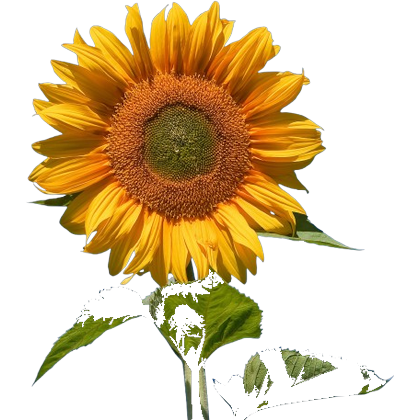
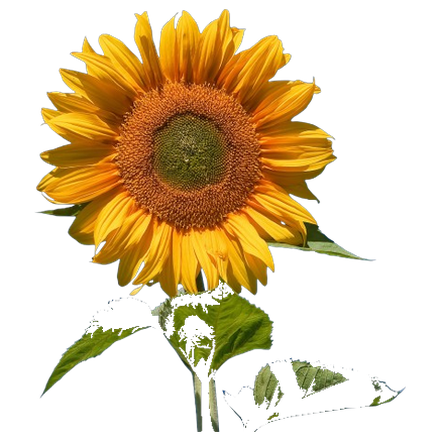
fix: los tramos y el envio gratis que ve el cliente salen de la configuracion
El panel y el checkout leian los tramos del catalogo del codigo mientras el
calculo ya usaba los editados. Cambiar un tramo movia el descuento cobrado pero
no la tabla mostrada, asi que la pantalla prometia una cosa y cobraba otra.

Ademas:
- Al mover el "desde" de un tramo se recalcula el "hasta" del anterior, para que
  no queden montos sin tramo.
- Foto nueva de hortensia: la anterior era un arbusto entero y a tamano de
  miniatura se leia como una mancha oscura.
- Las piezas se recortan al contenido y se centran, asi ninguna queda pequena
  dentro de su caja. Se ajusto la escala de globo, eucalipto y tulipan para que
  conserven el tamano que ya tenian.
- El archivo del vino no coincidia con su id, asi que siempre caia al dibujo de
  respaldo en lugar de mostrar la botella.
- Acentos en los nombres y descripciones visibles.
- Fuera los interruptores del configurador que no encendian nada.

diff --git a/src/datos/catalogo.ts b/src/datos/catalogo.ts
@@ -58,7 +58,7 @@ export const FORMATOS: Formato[] = [
   {
     id: 'ramo',
     nombre: 'Ramo envuelto',
-    descripcion: 'Clasico, en papel coreano',
+    descripcion: 'Clásico, en papel coreano',
     precio: 0,
     imagen: 'ramo',
   },
@@ -87,23 +87,23 @@ export const CINTAS: Cinta[] = [
 ]
 
 export const ARTICULOS: Articulo[] = [
-  { id: 'rosa-roja',    nombre: 'Rosas rojas',      descripcion: 'Clasicas y elegantes',   precio: 6, categoria: 'flor',    foto: 'rosa-roja',    pieza: 'rosa-roja',    escala: 1, stock: 24 },
-  { id: 'rosa-rosada',  nombre: 'Rosas rosadas',    descripcion: 'Romanticas y dulces',    precio: 6, categoria: 'flor',    foto: 'rosa-rosada',  pieza: 'rosa-rosada',  escala: 1, stock: 18 },
+  { id: 'rosa-roja',    nombre: 'Rosas rojas',      descripcion: 'Clásicas y elegantes',   precio: 6, categoria: 'flor',    foto: 'rosa-roja',    pieza: 'rosa-roja',    escala: 1, stock: 24 },
+  { id: 'rosa-rosada',  nombre: 'Rosas rosadas',    descripcion: 'Románticas y dulces',    precio: 6, categoria: 'flor',    foto: 'rosa-rosada',  pieza: 'rosa-rosada',  escala: 1, stock: 18 },
   { id: 'lirio',        nombre: 'Lirios blancos',   descripcion: 'Elegancia y pureza',     precio: 7, categoria: 'flor',    foto: 'lirio',        pieza: 'lirio',        escala: 1.15, stock: 9 },
-  { id: 'girasol',      nombre: 'Girasoles',        descripcion: 'Alegria y energia',      precio: 6, categoria: 'flor',    foto: 'girasol',      pieza: 'girasol',      escala: 1.2, stock: 12 },
-  { id: 'tulipan',      nombre: 'Tulipanes',        descripcion: 'Color y ternura',        precio: 6, categoria: 'flor',    foto: 'tulipan',      pieza: 'tulipan',      escala: 0.95, stock: 15 },
+  { id: 'girasol',      nombre: 'Girasoles',        descripcion: 'Alegría y energía',      precio: 6, categoria: 'flor',    foto: 'girasol',      pieza: 'girasol',      escala: 1.2, stock: 12 },
+  { id: 'tulipan',      nombre: 'Tulipanes',        descripcion: 'Color y ternura',        precio: 6, categoria: 'flor',    foto: 'tulipan',      pieza: 'tulipan',      escala: 0.8, stock: 15 },
   { id: 'gerbera',      nombre: 'Gerberas',         descripcion: 'Frescura y vitalidad',   precio: 5, categoria: 'flor',    foto: 'gerbera',      pieza: 'gerbera',      escala: 1, stock: 20 },
   { id: 'clavel',       nombre: 'Claveles',         descripcion: 'Belleza duradera',       precio: 4, categoria: 'flor',    foto: 'clavel',       pieza: 'clavel',       escala: 0.9, stock: 30 },
-  { id: 'hortensia',    nombre: 'Hortensias',       descripcion: 'Volumen y delicadeza',   precio: 7, categoria: 'flor',    foto: 'hortensia',    pieza: 'hortensia',    escala: 1.3, stock: 6 },
+  { id: 'hortensia',    nombre: 'Hortensias',       descripcion: 'Volumen y delicadeza',   precio: 7, categoria: 'flor',    foto: 'hortensia',    pieza: 'hortensia',    escala: 1.15, stock: 6 },
 
-  { id: 'eucalipto',    nombre: 'Follaje eucalipto', descripcion: 'Verde y aromatico',     precio: 4, categoria: 'follaje', foto: 'eucalipto',    pieza: 'eucalipto',    escala: 1.25, stock: 25 },
+  { id: 'eucalipto',    nombre: 'Follaje eucalipto', descripcion: 'Verde y aromático',     precio: 4, categoria: 'follaje', foto: 'eucalipto',    pieza: 'eucalipto',    escala: 1.1, stock: 25 },
   { id: 'helecho',      nombre: 'Helecho',           descripcion: 'Textura y volumen',     precio: 3, categoria: 'follaje', foto: 'helecho',      pieza: 'helecho',      escala: 1.2, stock: 14 },
   { id: 'gypsophila',   nombre: 'Gypsophila',        descripcion: 'Nube de flores blancas', precio: 4, categoria: 'follaje', foto: 'gypsophila',  pieza: 'gypsophila',   escala: 1.1, stock: 16 },
 
-  { id: 'globo',        nombre: 'Globo metalico',    descripcion: 'Para ocasiones especiales', precio: 12, categoria: 'extra', foto: 'globo',     pieza: 'globo',        escala: 1.1, stock: 8 },
+  { id: 'globo',        nombre: 'Globo metálico',    descripcion: 'Para ocasiones especiales', precio: 12, categoria: 'extra', foto: 'globo',     pieza: 'globo',        escala: 0.75, stock: 8 },
   { id: 'chocolates',   nombre: 'Caja de chocolates', descripcion: 'Bombones surtidos',    precio: 25, categoria: 'extra',  foto: 'chocolates',   pieza: 'chocolates',   escala: 1, stock: 5 },
   { id: 'peluche',      nombre: 'Peluche',            descripcion: 'Oso de 25 cm',         precio: 30, categoria: 'extra',  foto: 'peluche',      pieza: 'peluche',      escala: 1.15, stock: 3 },
-  { id: 'vino-tinto',   nombre: 'Vino tinto',         descripcion: 'Botella 750 ml',       precio: 45, categoria: 'extra',  foto: 'vino',         pieza: 'vino',         escala: 1.1, stock: 4 },
+  { id: 'vino-tinto',   nombre: 'Vino tinto',         descripcion: 'Botella 750 ml',       precio: 45, categoria: 'extra',  foto: 'vino-tinto',   pieza: 'vino-tinto',   escala: 1.1, stock: 4 },
 ]
 
 export function tramoPara(subtotal: number, tramos: TramoDescuento[] = TRAMOS): TramoDescuento {

diff --git a/src/paginas/Configurador.tsx b/src/paginas/Configurador.tsx
@@ -89,44 +89,48 @@ export default function Configurador() {
               Restablecer
             </button>
           )}
-          <span className="px-3 py-1.5 rounded-full bg-exito-suave text-exito text-[.78rem] font-semibold">
-            Activo
-          </span>
         </div>
 
         <div className="flex items-start gap-2.5 px-4 py-3 rounded-xl bg-marca-suave text-[.85rem] mb-6">
           <Info size={18} weight="light" className="text-marca shrink-0 mt-0.5" />
           <p>
-            Cambia cualquier valor y vuelve a la tienda: lo verás aplicado. En el prototipo se
-            guarda solo en este navegador.
+            En el prototipo los cambios se guardan solo en este navegador. En el producto real
+            viven en la base de datos y los ve cualquiera que entre a la tienda.
           </p>
         </div>
 
-        <div className="grid lg:grid-cols-2 gap-4 mb-4">
+        <div className="grid lg:grid-cols-2 gap-4 mb-4 items-start">
           <section className="bg-white rounded-2xl border border-borde p-5">
             <h2 className="font-semibold text-[1.02rem] mb-1">Descuentos por monto</h2>
             <p className="text-[.8rem] text-texto-suave mb-4">
-              Desde qué monto aplica cada tramo y cuánto descuenta.
+              Desde qué monto aplica cada tramo y cuánto descuenta. Debajo del primer tramo no
+              hay descuento.
             </p>
 
             <div className="space-y-2">
-              {c.tramos.map((t, i) => (
-                <div key={i} className="flex items-center gap-2.5">
-                  <span className="text-[.84rem] text-texto-suave w-14 shrink-0">Desde</span>
-                  <Numero
-                    valor={t.desde}
-                    prefijo="S/"
-                    onChange={(n) => c.editarTramo(i, { desde: n })}
-                  />
-                  <span className="text-[.84rem] text-texto-suave ml-auto shrink-0">Descuento</span>
-                  <Numero
-                    valor={t.porcentaje}
-                    sufijo="%"
-                    ancho="w-[86px]"
-                    onChange={(n) => c.editarTramo(i, { porcentaje: Math.min(100, n) })}
-                  />
-                </div>
-              ))}
+              {c.tramos.map((t, i) =>
+                // El primer tramo es el suelo: empieza en cero y no descuenta.
+                // Ponerlo como campo editable solo invita a romper la escalera.
+                i === 0 ? null : (
+                  <div key={i} className="flex items-center gap-2.5">
+                    <span className="text-[.84rem] text-texto-suave shrink-0">Desde</span>
+                    <Numero
+                      valor={t.desde}
+                      prefijo="S/"
+                      onChange={(n) => c.editarTramo(i, { desde: n })}
+                    />
+                    <span className="cifra text-[.78rem] text-texto-suave shrink-0">
+                      {t.hasta === null ? 'a más' : 'a ' + soles(t.hasta)}
+                    </span>
+                    <Numero
+                      valor={t.porcentaje}
+                      sufijo="%"
+                      ancho="w-[86px]"
+                      onChange={(n) => c.editarTramo(i, { porcentaje: Math.min(100, n) })}
+                    />
+                  </div>
+                ),
+              )}
             </div>
 
             <div className="flex items-center gap-2.5 mt-5 pt-4 border-t border-borde">
@@ -138,7 +142,7 @@ export default function Configurador() {
           <section className="bg-white rounded-2xl border border-borde p-5">
             <h2 className="font-semibold text-[1.02rem] mb-1">Pasos y formatos</h2>
             <p className="text-[.8rem] text-texto-suave mb-4">
-              Qué pasos ve el cliente y en qué puede ir su arreglo.
+              Cómo está armado el recorrido del cliente y en qué puede ir su arreglo.
             </p>
 
             <div className="space-y-2 mb-5">
@@ -159,9 +163,7 @@ export default function Configurador() {
                     <p className="text-[.88rem] font-medium">{nombre}</p>
                     <p className="text-[.75rem] text-texto-suave">{ayuda}</p>
                   </div>
-                  <span className="w-9 h-5 rounded-full bg-exito relative shrink-0">
-                    <span className="absolute right-0.5 top-0.5 w-4 h-4 rounded-full bg-white" />
-                  </span>
+                  <Check size={15} weight="bold" className="text-exito shrink-0" />
                 </div>
               ))}
             </div>

diff --git a/src/componentes/Panel.tsx b/src/componentes/Panel.tsx
@@ -1,18 +1,27 @@
 import { Link } from 'react-router-dom'
 import { Trash, Minus, Plus, X, Truck } from '@phosphor-icons/react'
 import { useArreglo } from '../estado/ArregloContext'
-import { TRAMOS, FORMATOS, ENVIO_GRATIS_DESDE } from '../datos/catalogo'
+import { FORMATOS } from '../datos/catalogo'
+import { useConfig } from '../estado/ConfigContext'
 import VistaPrevia from './VistaPrevia'
 
 const soles = (n: number) => 'S/ ' + n.toFixed(2)
 
 export default function Panel() {
   const a = useArreglo()
+
+  /*
+   * Los tramos y el monto de envio gratis salen de la configuracion, no del
+   * catalogo del codigo. Si se leyeran del codigo, cambiar un tramo desde el
+   * configurador movería el descuento que se cobra pero no la tabla que ve el
+   * cliente, y la pantalla estaria prometiendo una cosa y cobrando otra.
+   */
+  const { tramos, envioGratisDesde } = useConfig()
   const formato = FORMATOS.find((f) => f.id === a.formatoId) ?? FORMATOS[0]
 
   // La barra mide lo que lleva avanzado dentro del tramo en el que esta, no
   // sobre el total: asi siempre se ve movimiento al agregar algo.
-  const tramoActual = TRAMOS.find((t) => t.porcentaje === a.porcentaje) ?? TRAMOS[0]
+  const tramoActual = tramos.find((t) => t.porcentaje === a.porcentaje) ?? tramos[0]
   const meta = a.faltaParaSiguiente !== null ? a.subtotal + a.faltaParaSiguiente : a.subtotal
   const recorrido = meta - tramoActual.desde
   const avance = recorrido > 0
@@ -114,7 +123,7 @@ export default function Panel() {
 
         <div className="rounded-xl border border-borde overflow-hidden mb-4">
           <p className="px-3.5 py-2 text-[.78rem] font-semibold bg-fondo">Descuentos por monto</p>
-          {TRAMOS.map((t) => {
+          {tramos.map((t) => {
             const activo = t.porcentaje === a.porcentaje
             return (
               <div
@@ -172,7 +181,7 @@ export default function Panel() {
           }
         >
           <Truck size={16} weight="light" />
-          {a.llevaEnvioGratis ? 'Tu envío va gratis' : 'Envío gratis desde S/ ' + ENVIO_GRATIS_DESDE}
+          {a.llevaEnvioGratis ? 'Tu envío va gratis' : 'Envío gratis desde S/ ' + envioGratisDesde}
         </div>
       </div>
 

diff --git a/src/paginas/Checkout.tsx b/src/paginas/Checkout.tsx
@@ -2,7 +2,8 @@ import { useState } from 'react'
 import { useNavigate, Link } from 'react-router-dom'
 import { ArrowLeft, ShieldCheck, Truck, CheckCircle } from '@phosphor-icons/react'
 import { useArreglo } from '../estado/ArregloContext'
-import { FORMATOS, CINTAS, ENVIO_GRATIS_DESDE } from '../datos/catalogo'
+import { FORMATOS, CINTAS } from '../datos/catalogo'
+import { useConfig } from '../estado/ConfigContext'
 import Encabezado from '../componentes/Encabezado'
 import VistaPrevia from '../componentes/VistaPrevia'
 
@@ -34,6 +35,7 @@ const DISTRITOS = [
 
 export default function Checkout() {
   const a = useArreglo()
+  const { envioGratisDesde } = useConfig()
   const navegar = useNavigate()
   const [distrito, setDistrito] = useState(DISTRITOS[0].nombre)
   const [pasarela, setPasarela] = useState(PASARELAS[0].id)
@@ -134,8 +136,8 @@ export default function Checkout() {
               >
                 <Truck size={18} weight="light" className="shrink-0" />
                 {a.llevaEnvioGratis
-                  ? 'Tu compra supera S/ ' + ENVIO_GRATIS_DESDE + ', el envío va gratis'
-                  : 'Envío a ' + zona.nombre + ': ' + soles(zona.envio) + '. Gratis desde S/ ' + ENVIO_GRATIS_DESDE}
+                  ? 'Tu compra supera S/ ' + envioGratisDesde + ', el envío va gratis'
+                  : 'Envío a ' + zona.nombre + ': ' + soles(zona.envio) + '. Gratis desde S/ ' + envioGratisDesde}
               </div>
             </section>
 

diff --git a/src/estado/ConfigContext.tsx b/src/estado/ConfigContext.tsx
@@ -84,10 +84,21 @@ export function ProveedorConfig({ children }: { children: ReactNode }) {
         articulos: c.articulos.map((a) => (a.id === id ? { ...a, ...cambios } : a)),
       })),
     editarTramo: (indice, cambios) =>
-      setConfig((c) => ({
-        ...c,
-        tramos: c.tramos.map((t, i) => (i === indice ? { ...t, ...cambios } : t)),
-      })),
+      setConfig((c) => {
+        const tramos = c.tramos.map((t, i) => (i === indice ? { ...t, ...cambios } : t))
+
+        /*
+         * Cada tramo termina donde empieza el siguiente. Si no se recalcula al
+         * mover un "desde", quedan montos que no caen en ningun tramo y el
+         * descuento se pierde sin que nadie entienda por que.
+         */
+        for (let i = 0; i < tramos.length - 1; i++) {
+          tramos[i] = { ...tramos[i], hasta: Number((tramos[i + 1].desde - 0.01).toFixed(2)) }
+        }
+        tramos[tramos.length - 1] = { ...tramos[tramos.length - 1], hasta: null }
+
+        return { ...c, tramos }
+      }),
     setEnvioGratisDesde: (monto) => setConfig((c) => ({ ...c, envioGratisDesde: monto })),
     restablecer: () => {
       try {

diff --git a/src/componentes/Pieza.tsx b/src/componentes/Pieza.tsx
@@ -17,14 +17,14 @@ const RESPALDO: Record<string, { petalo: string; centro: string }> = {
   tulipan:       { petalo: '#EE7BA0', centro: '#D2517D' },
   gerbera:       { petalo: '#F2764B', centro: '#B8412A' },
   clavel:        { petalo: '#F4A8C0', centro: '#DE7C9C' },
-  hortensia:     { petalo: '#A9B9E6', centro: '#7D90CC' },
+  hortensia:     { petalo: '#C6B4E3', centro: '#9C86C8' },
   eucalipto:     { petalo: '#8FAE93', centro: '#6E8F74' },
   helecho:       { petalo: '#6E9B6B', centro: '#547A52' },
   gypsophila:    { petalo: '#FFFFFF', centro: '#E8E8EC' },
   globo:         { petalo: '#EC5070', centro: '#C93A58' },
   chocolates:    { petalo: '#8A5A3C', centro: '#5E3A24' },
   peluche:       { petalo: '#D8A97C', centro: '#B5854F' },
-  vino:          { petalo: '#6B1F2E', centro: '#48141F' },
+  'vino-tinto':  { petalo: '#6B1F2E', centro: '#48141F' },
 }
 
 export default function Pieza({ id, nombre }: { id: string; nombre: string }) {

diff --git a/CREDITOS.md b/CREDITOS.md
@@ -16,10 +16,10 @@ tienda, tanto por fidelidad como por licencia.**
 | globo | [City of London Cemetery grave balloons red Sol](https://commons.wikimedia.org/wiki/File:City_of_London_Cemetery_grave_balloons_red_Solo_party_cup_wine_bottles_and_flowers_1.jpg) | Arthur Scraggit | CC BY-SA 4.0 |
 | gypsophila | [Jabonera - Albalda - Gypsophila Struthium (801](https://commons.wikimedia.org/wiki/File:Jabonera_-_Albalda_-_Gypsophila_Struthium_(8013137666).jpg) | jacilluch | CC BY-SA 2.0 |
 | helecho | [Nephrolepis exaltata indoor0705c.jpg](https://commons.wikimedia.org/wiki/File:Nephrolepis_exaltata_indoor0705c.jpg) | sin autor declarado | CC BY-SA 3.0 |
-| hortensia | [Hydrangea macrophylla--ilouque--CC-BY.jpg](https://commons.wikimedia.org/wiki/File:Hydrangea_macrophylla--ilouque--CC-BY.jpg) | Clarke S. | CC BY 4.0 |
+| hortensia | [Hydrangea macrophylla (Flower).jpg](https://commons.wikimedia.org/wiki/File:Hydrangea_macrophylla_(Flower).jpg) | Kuldhar Rabha | CC BY-SA 4.0 |
 | lirio | [Microsoft Lilies 1.jpg](https://commons.wikimedia.org/wiki/File:Microsoft_Lilies_1.jpg) | sin autor declarado | Public domain |
 | peluche | [Steiff Company Teddy Bear with Blue Overalls -](https://commons.wikimedia.org/wiki/File:Steiff_Company_Teddy_Bear_with_Blue_Overalls_-_DPLA_-_dc1d6ce26aa057b33cf68fd4c027088c_(page_1).jpg) | Steiff | Public domain |
 | rosa-roja | [Red Rose - Flickr - maticsteve.jpg](https://commons.wikimedia.org/wiki/File:Red_Rose_-_Flickr_-_maticsteve.jpg) | maticsteve from Cuenca, Ecuador | CC BY 4.0 |
 | rosa-rosada | [A Dwarf Rose closeup at Madhurawada.jpg](https://commons.wikimedia.org/wiki/File:A_Dwarf_Rose_closeup_at_Madhurawada.jpg) | Srichakra Pranav | CC BY-SA 3.0 |
 | tulipan | [Colorful Tulip (255701309).jpeg](https://commons.wikimedia.org/wiki/File:Colorful_Tulip_(255701309).jpeg) | Igal Marcelo Zimmt | CC BY 3.0 |
-| vino | [Elite Studio.jpg](https://commons.wikimedia.org/wiki/File:Elite_Studio.jpg) | Nigab Pressbilder | CC BY 2.0 |
+| vino-tinto | [Elite Studio.jpg](https://commons.wikimedia.org/wiki/File:Elite_Studio.jpg) | Nigab Pressbilder | CC BY 2.0 |
